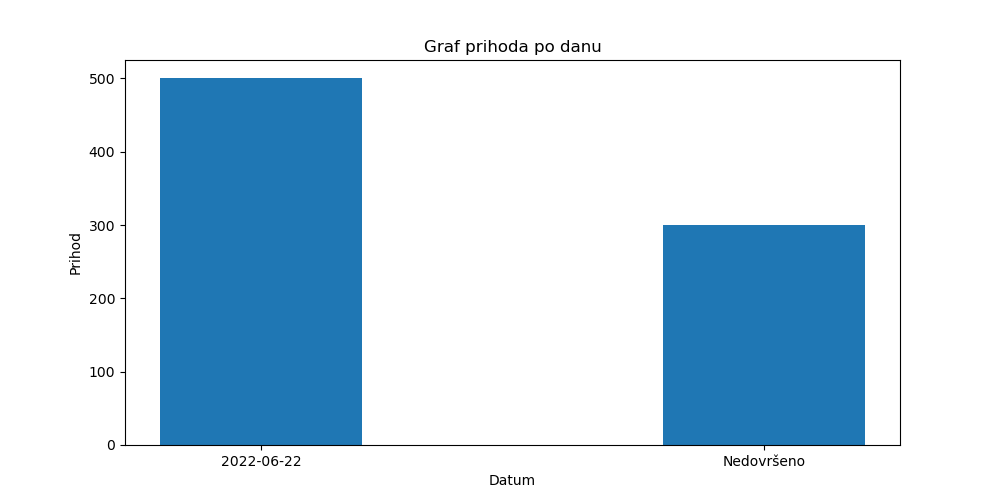
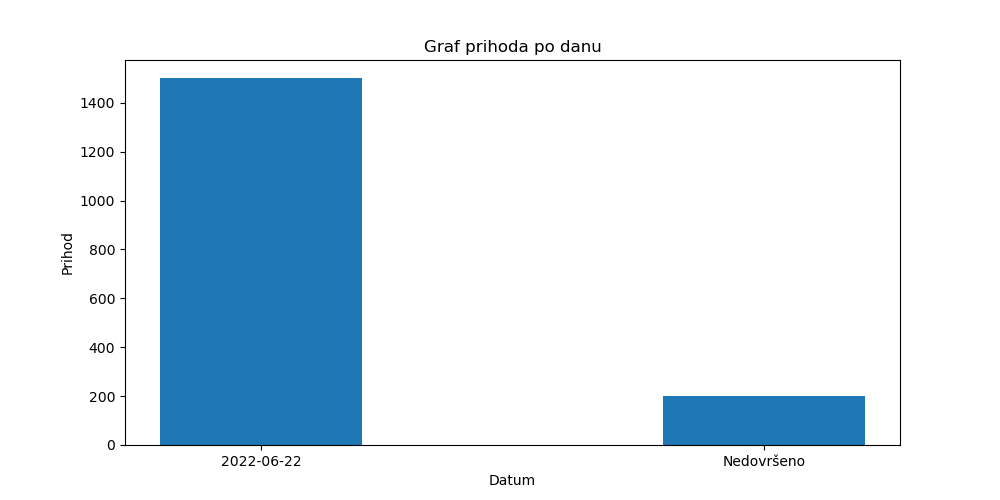
Ispravljena greska kod grafova

diff --git a/app.py b/app.py
@@ -1,3 +1,5 @@
+from matplotlib import pyplot as plt
+import matplotlib.pyplot as plt
 import json
 from flask import Flask, redirect, render_template, request
 from flask_sqlalchemy import SQLAlchemy
@@ -7,7 +9,8 @@ from sqlalchemy import create_engine, update
 from sqlalchemy.orm import sessionmaker
 import pandas as pd
 import os
-from matplotlib import pyplot as plt
+import matplotlib
+matplotlib.use('Agg')
 
 app = Flask(__name__)
 app.config["SQLALCHEMY_DATABASE_URI"] = "sqlite:///database.db"
@@ -1016,23 +1019,17 @@ def statistic():
     fin_prod_table = pd.read_sql_table(
         table_name='finished_product', con=engine)
 
-    # name_list = []
-
-    # for _, row in fin_prod_table.iterrows():
-    #     if row["product_name"] not in name_list:
-    #         name_list.append(row["product_name"])
-
     number_of_names = fin_prod_table.groupby(['product_name']).size()
     price_list = fin_prod_table.groupby(['date_finished'])['price'].sum()
 
+    plt.figure(1)
     plt.pie(number_of_names, labels=number_of_names.keys(),
             autopct='%1.1f%%', startangle=0)
     plt.title('Udio pojedinog prodanog proizvoda od ukupne prodaje')
-    # plt.axis('equal')
 
     plt.savefig('image/pie_chart.png')
 
-    plt.subplot(122)
+    plt.figure(2)
     plt.figure(figsize=(10, 5))
     plt.bar(price_list.keys(), price_list, width=0.4)
     plt.xlabel("Datum")
